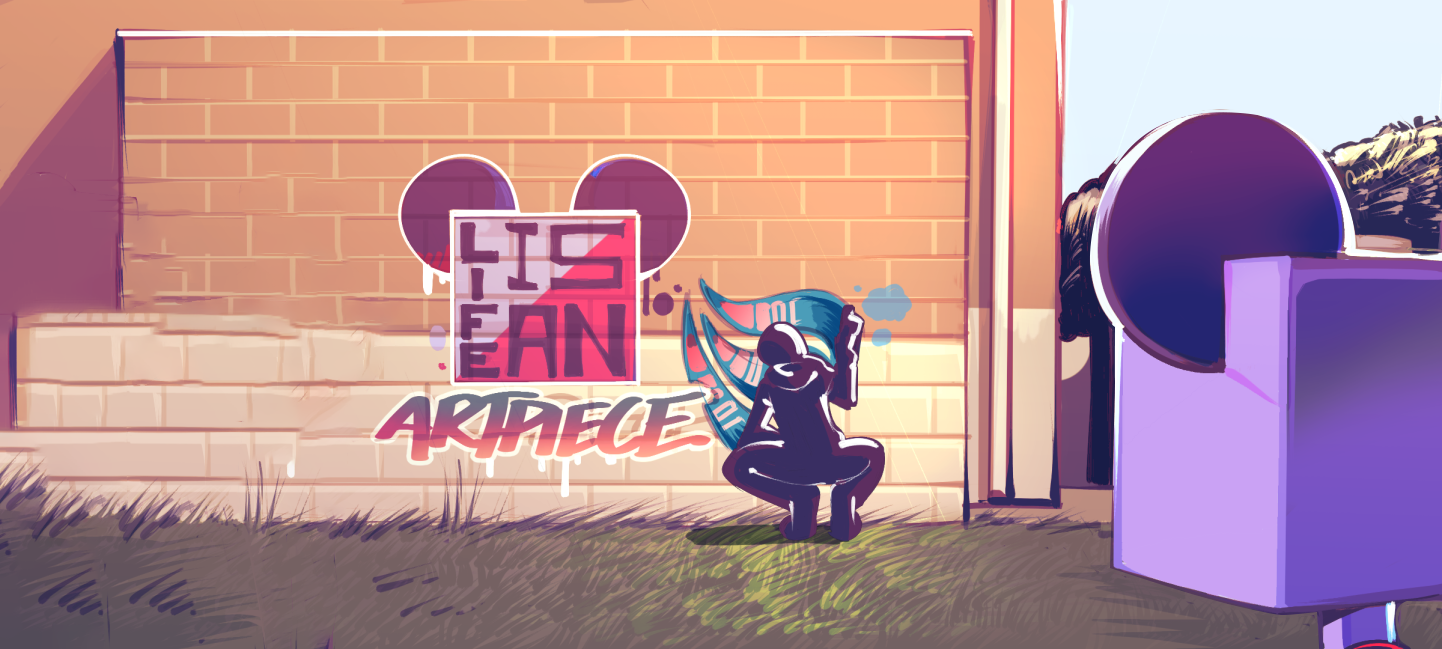
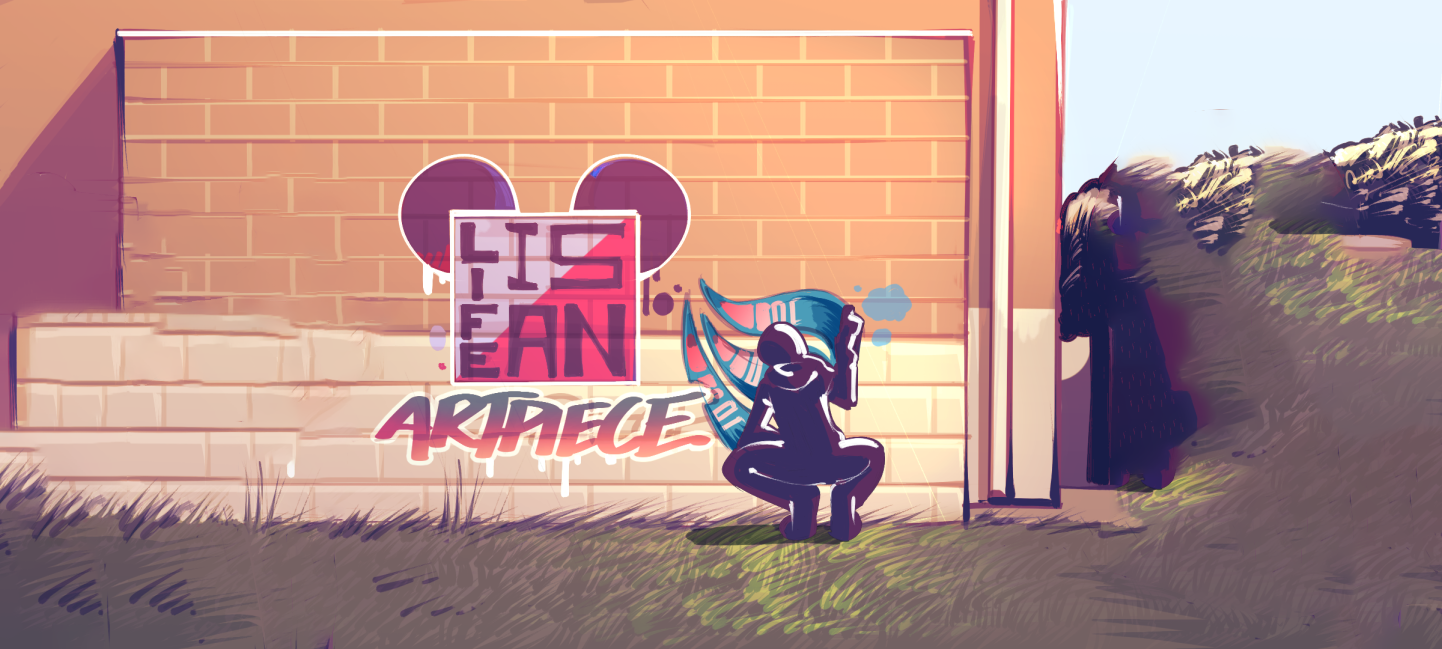
SYFT-920: scene 7 transitions refactored

Changed region(s): [[0.749, 0.1541, 1.0, 1.0]]

diff --git a/components/Scenes/Scene-7/index.js b/components/Scenes/Scene-7/index.js
@@ -9,12 +9,12 @@ const Scene7 = ({ transitionData }) => {
   const percent = (transitionData.percent * 10).toFixed();
 
   useEffect(() => {
-    if (percent < 3) {
+    if (percent < 4) {
       setStep(1);
-    } else if (percent > 3 && percent < 7) {
+    } else if (percent >= 4 && percent < 7) {
       setStep(2);
-    } else if (percent > 7) {
-      setStep(1);
+    } else if (percent >= 7) {
+      setStep(3);
     }
   }, [percent]);
 
@@ -23,11 +23,15 @@ const Scene7 = ({ transitionData }) => {
       <div
         className={cx(styles.section, {
           [styles.stepTwo]: step === 2,
+          [styles.stepThree]: step === 3,
         })}
       >
         <div className={styles.backdrop} />
-        <div className={styles.character}>
+        <div className={styles.characterLeft}>
           <img src="/assets/images/scene7/2.png" alt="" />
+        </div>
+        <div className={styles.characterRight}>
+          <img src="/assets/images/scene7/3.png" alt="" />
         </div>
       </div>
     </MotionDiv>

diff --git a/components/Scenes/Scene-7/index.module.scss b/components/Scenes/Scene-7/index.module.scss
@@ -17,24 +17,54 @@
     background-position: right;
   }
 
-  .character {
+  .characterLeft,
+  .characterRight {
     position: absolute;
-    bottom: 0;
-    left: -22%;
-    height: 80%;
 
     img {
       height: 100%;
     }
   }
+
+  .characterLeft {
+    bottom: 0;
+    left: -23%;
+    height: 80%;
+  }
+
+  .characterRight {
+    bottom: 0;
+    right: 0;
+    height: 83%;
+  }
 }
 
 .stepTwo {
   .backdrop {
-    background-position: left;
+    background-position: 10%;
   }
 
-  .character {
+  .characterLeft {
     left: 0;
+  }
+
+  .characterRight {
+    right: -17%;
+  }
+}
+
+.stepThree {
+  .backdrop {
+    opacity: 0.2;
+  }
+
+  .characterLeft {
+    height: 200%;
+    opacity: 0;
+  }
+
+  .characterRight {
+    height: 200%;
+    opacity: 0;
   }
 }
